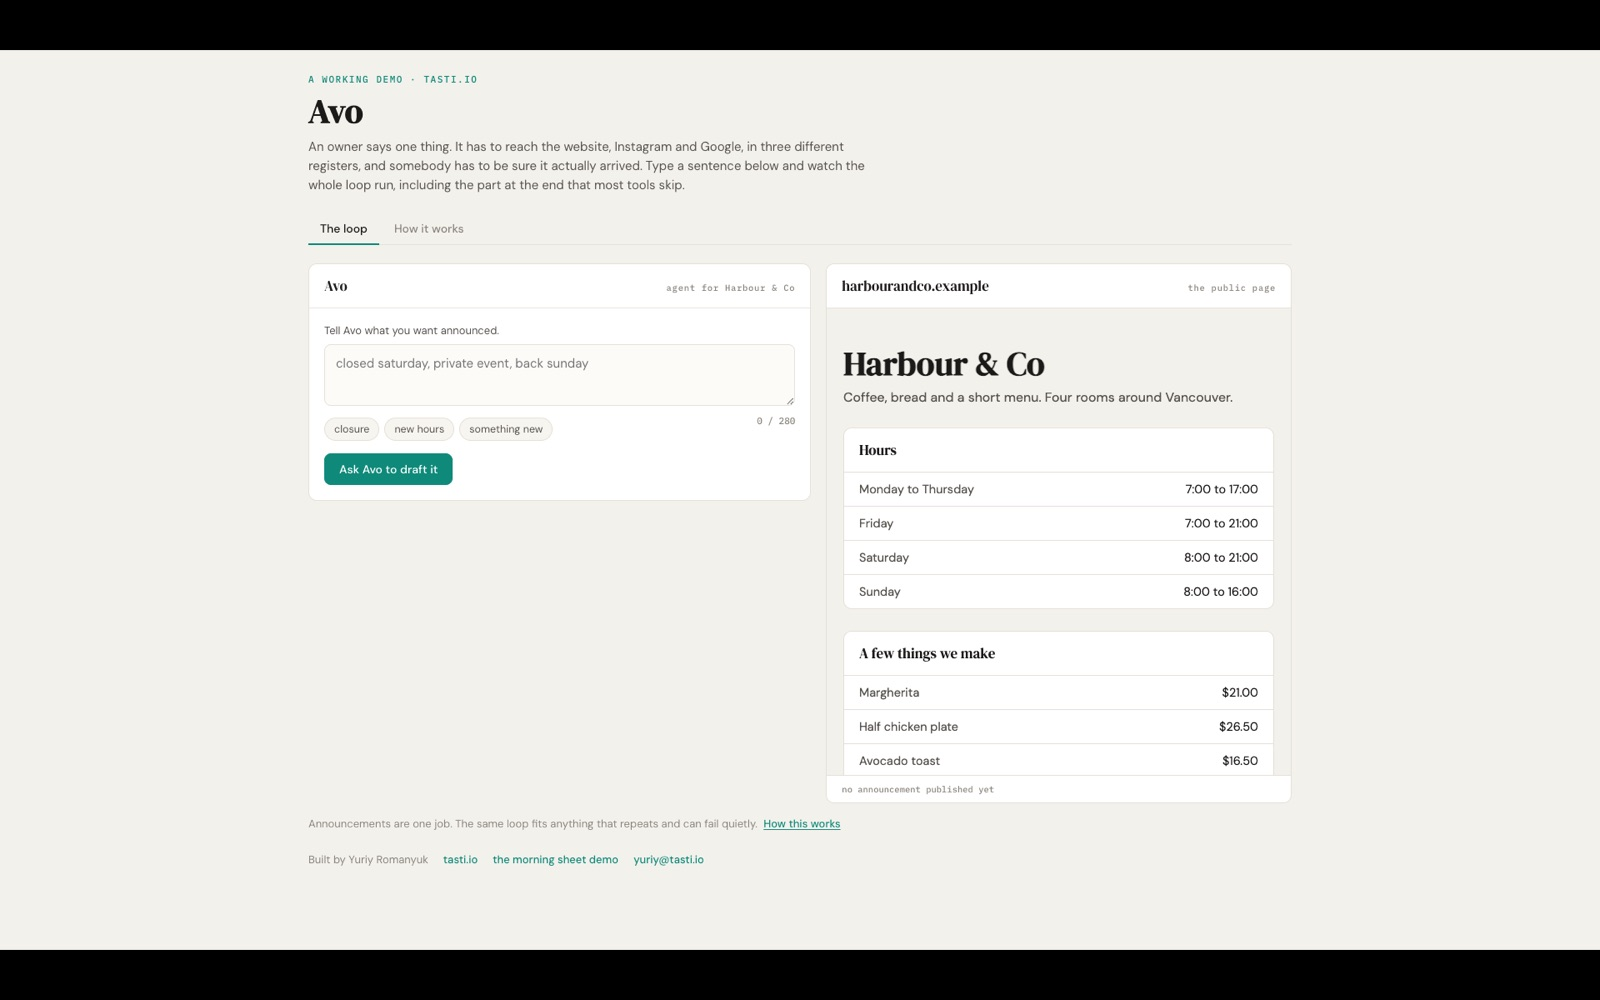
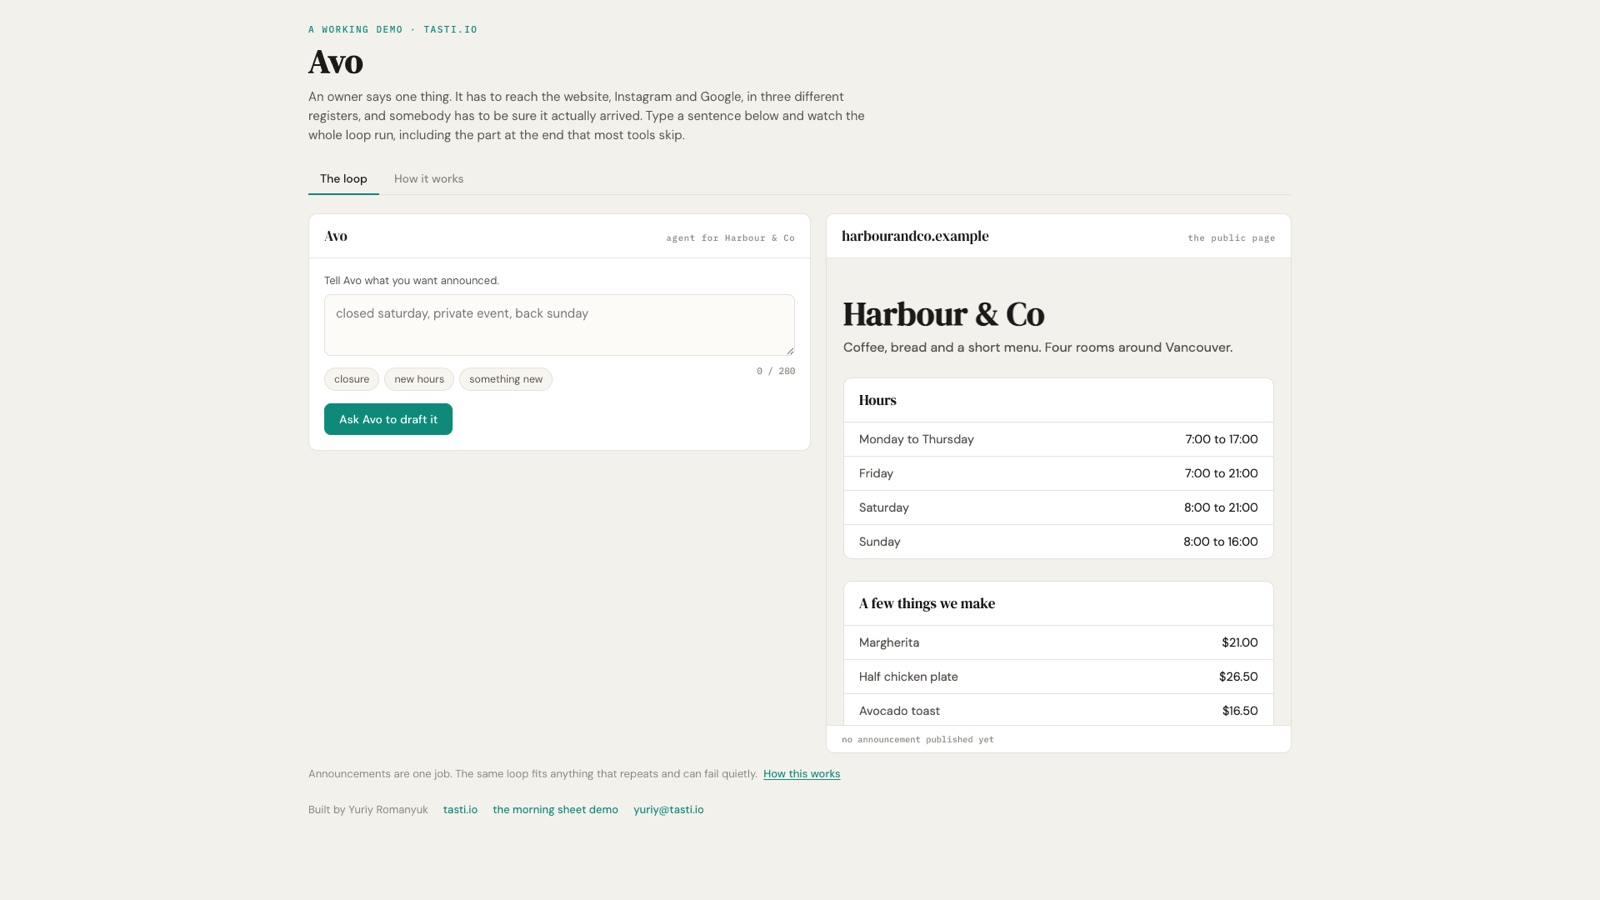
Use the top-of-page capture, not a centre crop
sips -c crops from the centre, so the previews were the middle of each page.
For Avo I also asked for a frame taller than the source, so the card showed a
band of white padding. Both now use the viewport capture of the top of the
page, which is what a visitor sees first and what the frame is pretending to
be.

diff --git a/public/index.html b/public/index.html
@@ -37,7 +37,7 @@
   .chrome .addr{flex:1;margin-left:6px;background:#F6F4EF;border-radius:5px;padding:3px 9px;
                 font-family:'IBM Plex Mono',monospace;font-size:10.5px;color:var(--faint);
                 white-space:nowrap;overflow:hidden;text-overflow:ellipsis}
-  .shot{aspect-ratio:16/10;overflow:hidden;background:var(--paper)}
+  .shot{aspect-ratio:16/9;overflow:hidden;background:var(--paper)}
   .shot img{width:100%;height:100%;object-fit:cover;object-position:top center;display:block;
             transition:transform .5s cubic-bezier(.2,.7,.3,1)}
   .card:hover .shot img{transform:scale(1.025)}
@@ -76,7 +76,7 @@
       <a class="card" href="https://morning-sheet.tasti.io" target="_blank" rel="noopener">
         <div class="frame">
           <div class="chrome"><span class="dot"></span><span class="dot"></span><span class="dot"></span><span class="addr">morning-sheet.tasti.io</span></div>
-          <div class="shot"><img src="/shots/morning-sheet.jpg" alt="" loading="lazy" width="1600" height="1000"></div>
+          <div class="shot"><img src="/shots/morning-sheet.jpg" alt="" loading="lazy" width="1600" height="900"></div>
         </div>
         <div class="body">
           <div class="head">
@@ -95,7 +95,7 @@
       <a class="card" href="https://avo.tasti.io" target="_blank" rel="noopener">
         <div class="frame">
           <div class="chrome"><span class="dot"></span><span class="dot"></span><span class="dot"></span><span class="addr">avo.tasti.io</span></div>
-          <div class="shot"><img src="/shots/avo.jpg" alt="" loading="lazy" width="1600" height="1000"></div>
+          <div class="shot"><img src="/shots/avo.jpg" alt="" loading="lazy" width="1600" height="900"></div>
         </div>
         <div class="body">
           <div class="head">
